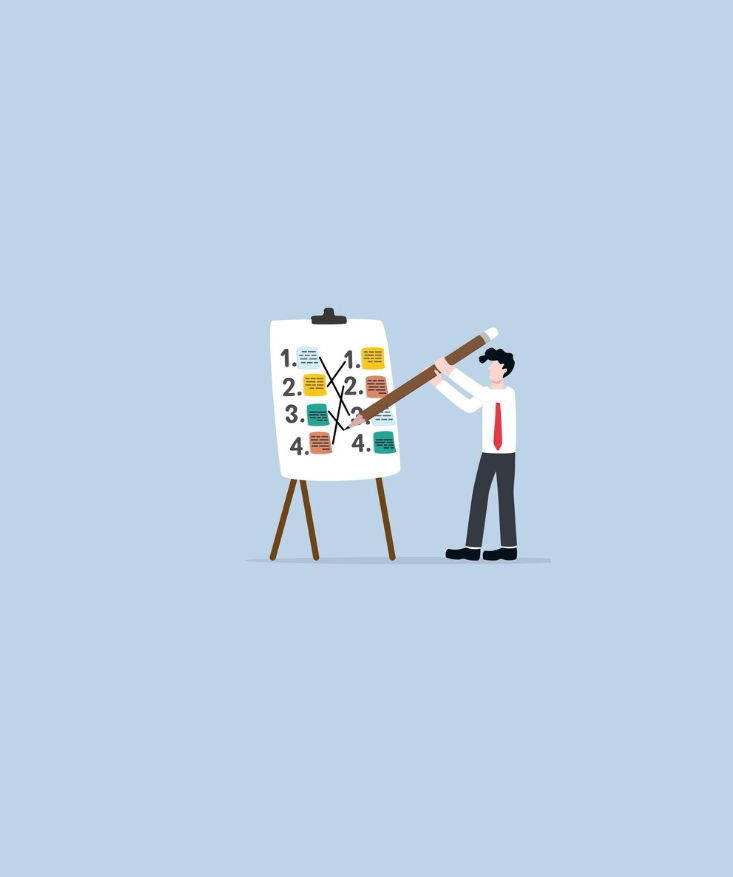
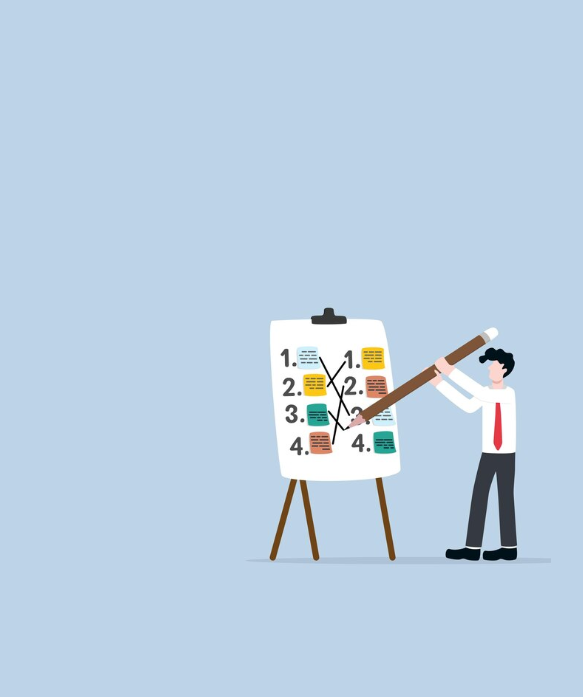
minor chnage

Changed region(s): [[0.3705, 0.3314, 0.8954, 0.8135]]

diff --git a/assignWhatBytesApp/app/(tabs)/signin.jsx b/assignWhatBytesApp/app/(tabs)/signin.jsx
@@ -75,7 +75,7 @@ const SignInScreen = () => {
   return (
     <View style={styles.container}>
       <ImageBackground
-        source={require("../../assets/images/bg5.png")}
+        source={require("../../assets/images/bg7.png")}
         style={{
           flex: 1,
         }}

diff --git a/assignWhatBytesApp/app/(tabs)/signup.jsx b/assignWhatBytesApp/app/(tabs)/signup.jsx
@@ -70,7 +70,7 @@ const SignUpScreen = () => {
   return (
     <View style={styles.container}>
       <ImageBackground
-        source={require("../../assets/images/bg5.png")}
+        source={require("../../assets/images/bg7.png")}
         style={{
           flex: 1,
         }}
